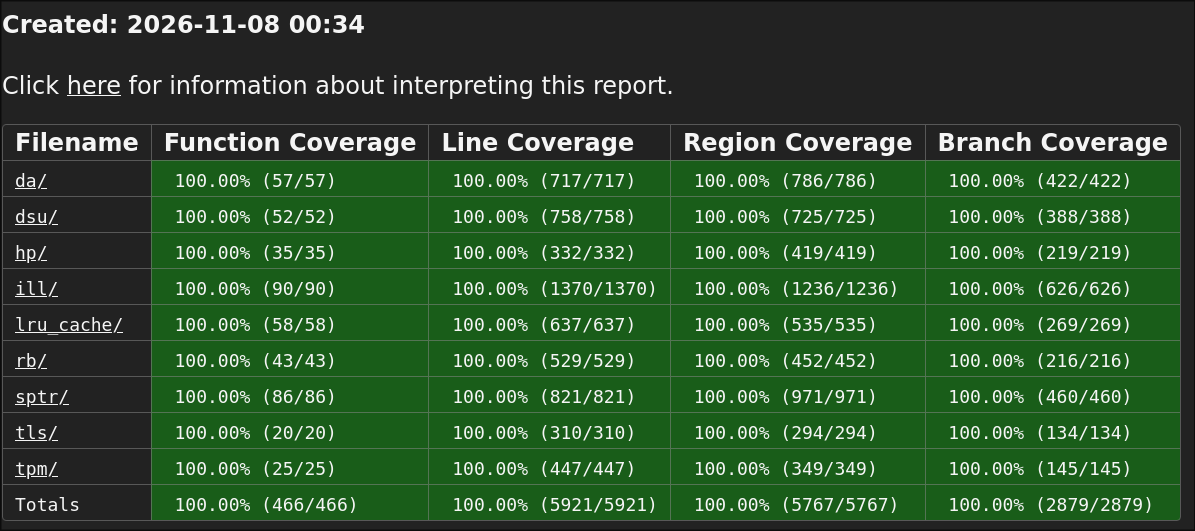
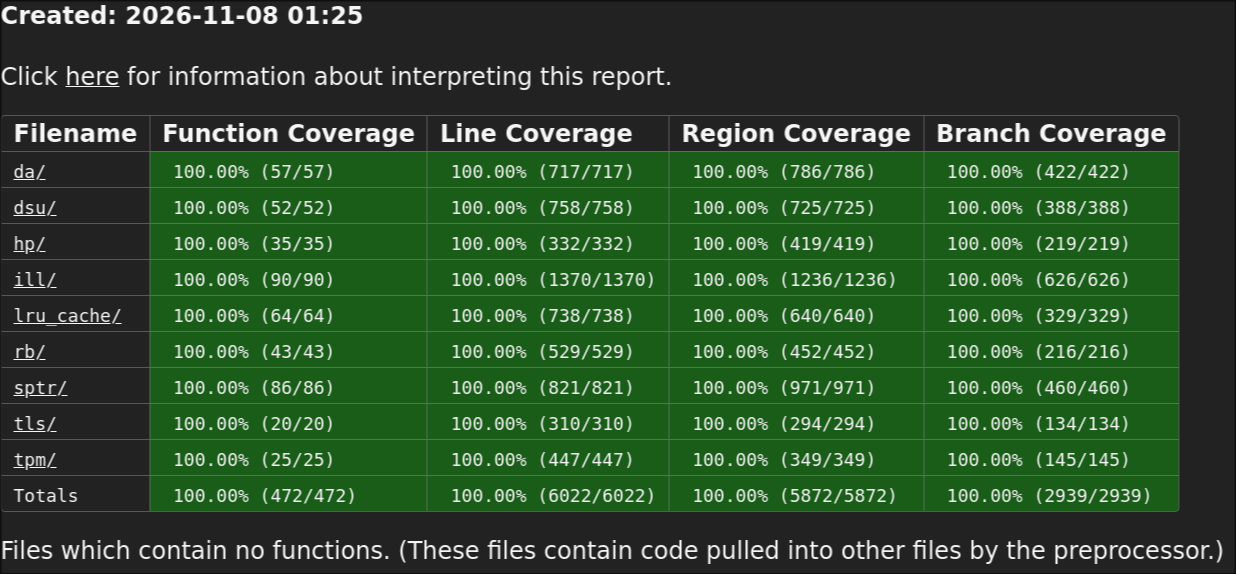
coverage(refactor/lruc): added missing coverage that was lost due to refactor
tests: back at 100% coverage

diff --git a/tests/lru_cache_tests/test_lruc_get.c b/tests/lru_cache_tests/test_lruc_get.c
@@ -59,6 +59,7 @@ NO_COV void test_cm_lruc_get_lru(void) {
 	usleep(400 * 1000); // 1ms = 1k us
 	assert(lruc_get_lru(&c, k3, strlen(k3)) == v3);
 	assert(lruc_get_lru(&c, k4, strlen(k4)) == v4);
+	assert(lruc_get_lru(&c, "unknown", 7) == NULL); // present cache, absent key
 	intact_copy = c;
 
 	c.MRU = NULL;
@@ -154,6 +155,13 @@ NO_COV void test_cm_lruc_get(void) {
 	// errors
 	assert(lruc_get(NULL, k1, strlen(k1), gen_count, (void *)k1) == NULL);
 
+	// compute succeeds but storing fails (clock error on put)
+	lruc_setttl(&c, LRUC_MS_TO_NS(100));
+	clock_set_call_limit(0);
+	assert(lruc_get(&c, k2, strlen(k2), gen_count, (void *)k2) == NULL);
+	clock_set_call_limit(CLOCK_DFT_LIMIT);
+	lruc_setttl(&c, C_MINI__LRUC_TTL_DFLT);
+
 	lruc_destroy(&c);
 	return;
 }
@@ -205,6 +213,19 @@ NO_COV void test_cm_lruc_getttl(void) {
 	// errors
 	assert(lruc_getttl(NULL, k1, strlen(k1), gen_count, (void *)k1,
 	                   LRUC_MS_TO_NS(200)) == NULL);
+
+	// clock failure while checking a present, ttl'd entry
+	clock_set_call_limit(0);
+	assert(lruc_getttl(&c, k1, strlen(k1), gen_count, (void *)k1,
+	                   LRUC_MS_TO_NS(200)) == NULL);
+	clock_set_call_limit(CLOCK_DFT_LIMIT);
+
+	// compute succeeds but storing fails (clock error on put)
+	lruc_clear(&c);
+	clock_set_call_limit(0);
+	assert(lruc_getttl(&c, k2, strlen(k2), gen_count, (void *)k2,
+	                   LRUC_MS_TO_NS(200)) == NULL);
+	clock_set_call_limit(CLOCK_DFT_LIMIT);
 
 	lruc_destroy(&c);
 	return;

diff --git a/tests/lru_cache_tests/test_lruc_internal_utils.c b/tests/lru_cache_tests/test_lruc_internal_utils.c
@@ -69,3 +69,32 @@ NO_COV void test_cm_lruci_node_eq(void) {
 	kv1.kv.key = key2;
 	assert(lruci_node_eq(&kv1, &kv2) == false);
 }
+NO_COV void test_cm_lruci_expiry(void) {
+	t_cm_lruc_keynode n = {.time_emitted = 0, .ns_gap = (size_t)-1};
+
+	// no ttl -> infinite expiry
+	assert(lruci_expiry(&n) == (uint64_t)-1);
+
+	// normal expiry is time_emitted + ns_gap
+	n.time_emitted = 10;
+	n.ns_gap       = 5;
+	assert(lruci_expiry(&n) == 15);
+
+	// huge ns_gap overflows -> saturates to infinite
+	n.time_emitted = 10;
+	n.ns_gap       = (size_t)-2;
+	assert(lruci_expiry(&n) == (uint64_t)-1);
+}
+NO_COV void test_cm_lruci_expired(void) {
+	t_cm_lruc_keynode n = {.time_emitted = 0, .ns_gap = (size_t)-1};
+
+	// no ttl -> never expired
+	assert(lruci_expired(&n, 100) == false);
+
+	n.time_emitted = 100;
+	n.ns_gap       = 50;
+	assert(lruci_expired(&n, 100) == false); // now == time_emitted
+	assert(lruci_expired(&n, 50) == false);  // now < time_emitted
+	assert(lruci_expired(&n, 140) == false); // not expired yet
+	assert(lruci_expired(&n, 151) == true);  // expired
+}

diff --git a/tests/lru_cache_tests/test_lruc_internal_hp.c b/tests/lru_cache_tests/test_lruc_internal_hp.c
@@ -112,3 +112,27 @@ NO_COV void test_cm_lruci_hp_pop_nth(void) {
 	free(kv1), free(kv2), free(kv3);
 	free(c.buckets);
 }
+NO_COV void test_cm_lruci_hp_rebuild(void) {
+	t_cm_lruc           c;
+	t_cm_lruc_keynode **saved;
+	const char         *ka = "a", *kb = "b", *kc = "c", *kd = "d";
+
+	lruc_init(&c, 4, NULL);
+	lruc_put_ttl(&c, ka, 1, "va", LRUC_MS_TO_NS(300));
+	lruc_put_ttl(&c, kb, 1, "vb", LRUC_MS_TO_NS(100));
+	lruc_put_ttl(&c, kc, 1, "vc", LRUC_MS_TO_NS(200));
+	lruc_put(&c, kd, 1, "vd"); // no ttl -> infinite expiry, sorts last
+
+	lruci_hp_rebuild(&c);
+	assert(c.node_nb == 4);
+	assert(c.minHeap[0]->kv.key == (void *)kb); // earliest expiry at root
+	assert(c.minHeap[c.node_nb - 1] != NULL);
+
+	// minHeap NULL -> early return
+	saved     = c.minHeap;
+	c.minHeap = NULL;
+	lruci_hp_rebuild(&c);
+	c.minHeap = saved;
+
+	lruc_destroy(&c);
+}

diff --git a/tests/lru_cache_tests/lru_cache_tests.h b/tests/lru_cache_tests/lru_cache_tests.h
@@ -52,9 +52,12 @@ void test_cm_lruc_max_reserve(void);
 void test_cm_lruci_hp_pop(void);
 void test_cm_lruci_hp_pop_sift_right(void);
 void test_cm_lruci_hp_pop_nth(void);
+void test_cm_lruci_hp_rebuild(void);
 void test_cm_lruci_keyinhash(void);
 void test_cm_lruci_keyinlist(void);
 void test_cm_lruci_node_eq(void);
+void test_cm_lruci_expiry(void);
+void test_cm_lruci_expired(void);
 void test_cm_lruci_rsvrd_push(void);
 void test_cm_lruci_rsvrd_pop(void);
 void test_cm_lruci_hsh_pop(void);

diff --git a/tests/lru_cache_tests/test_main_lru_cache.c b/tests/lru_cache_tests/test_main_lru_cache.c
@@ -54,9 +54,12 @@ NO_COV int main(void) {
 	test_cm_lruci_hp_pop();
 	test_cm_lruci_hp_pop_sift_right();
 	test_cm_lruci_hp_pop_nth();
+	test_cm_lruci_hp_rebuild();
 	test_cm_lruci_keyinhash();
 	test_cm_lruci_keyinlist();
 	test_cm_lruci_node_eq();
+	test_cm_lruci_expiry();
+	test_cm_lruci_expired();
 	test_cm_lruci_hsh_pop();
 	test_cm_lruci_rsvrd_push();
 	test_cm_lruci_rsvrd_pop();
